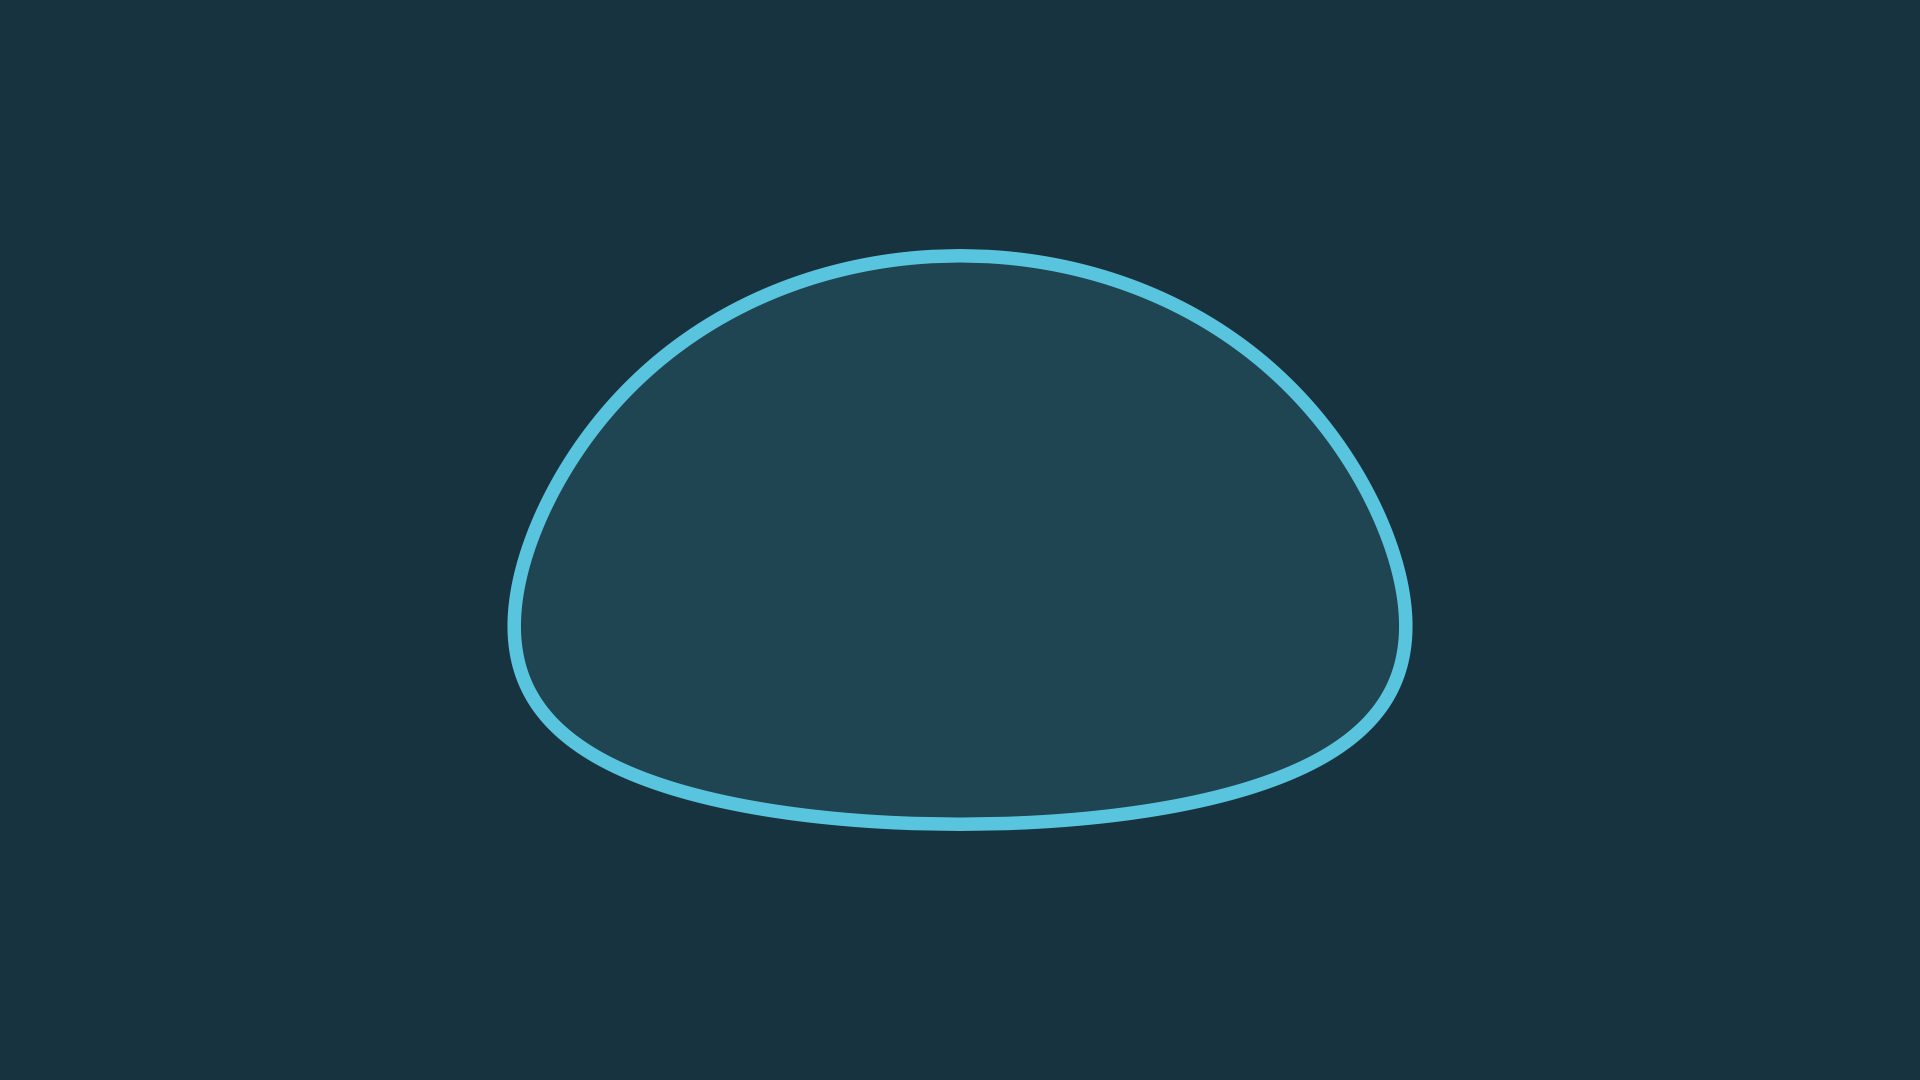
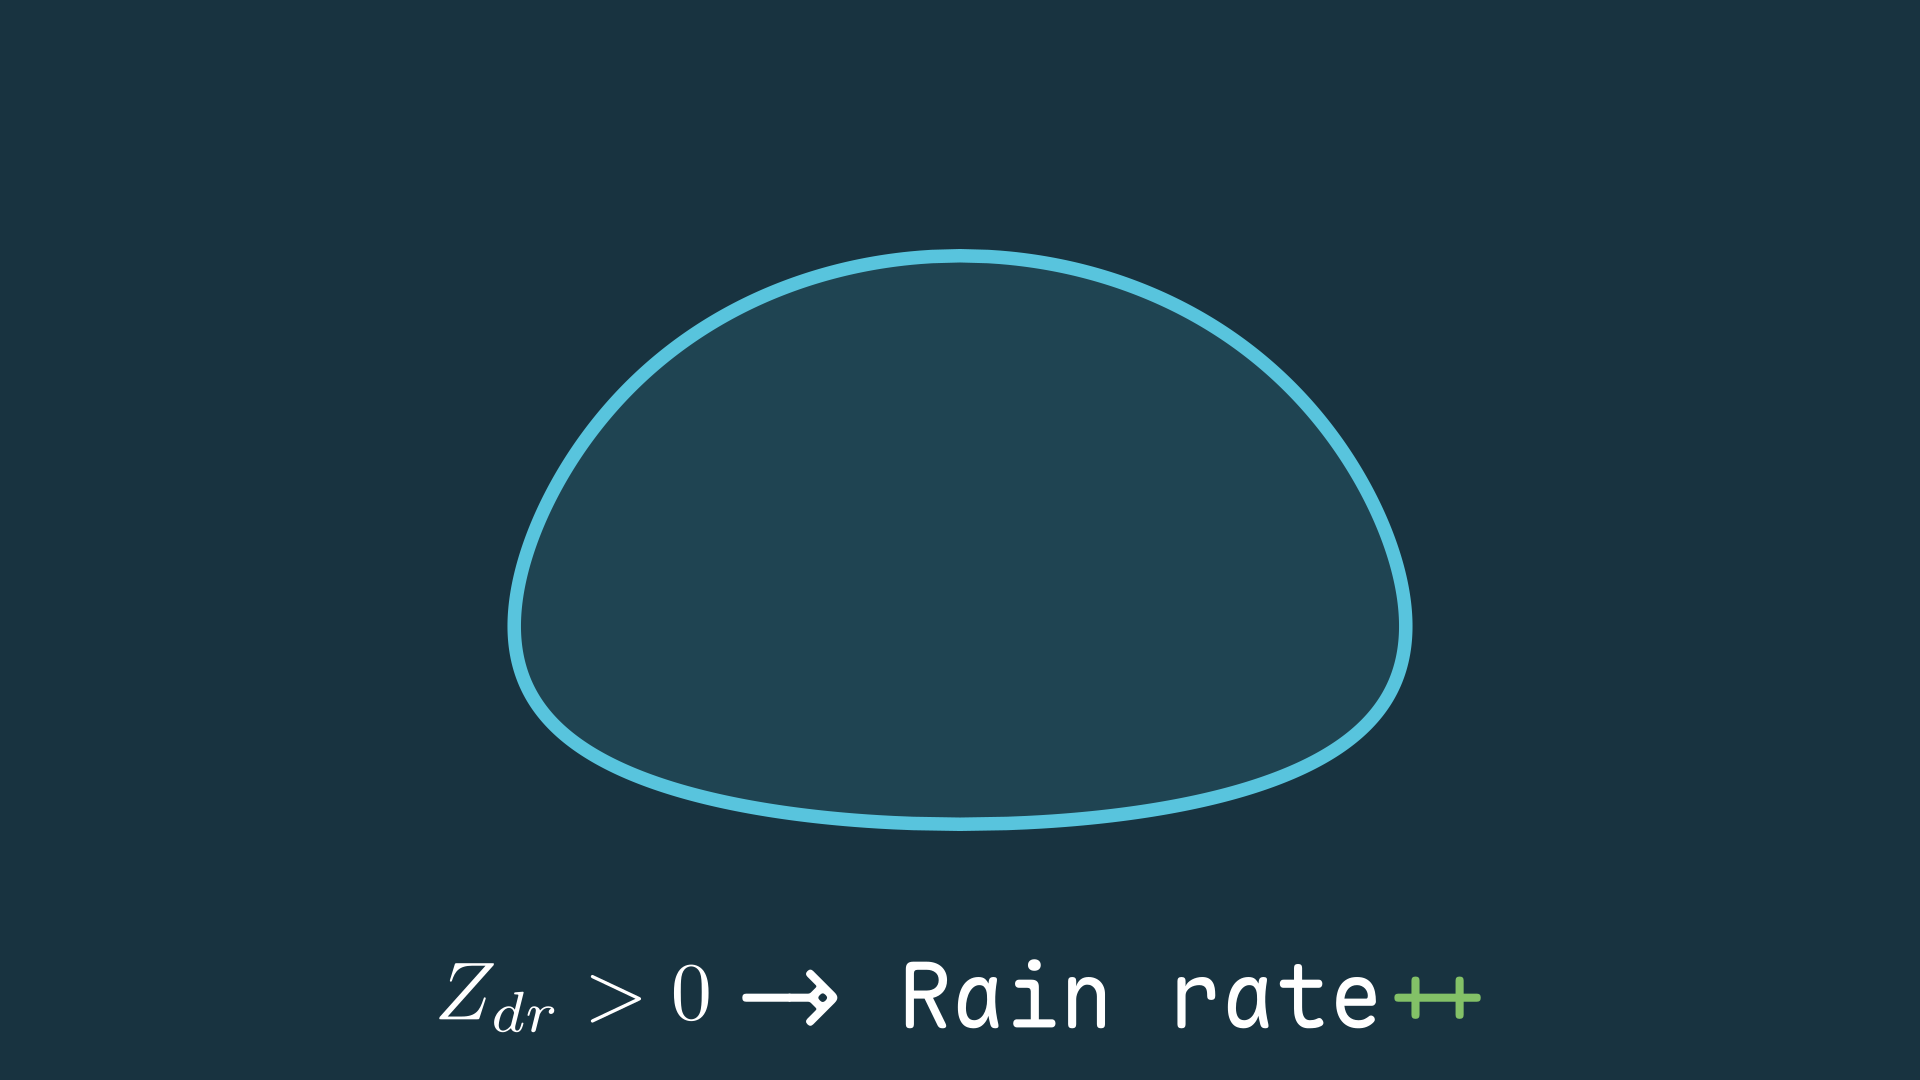
render dropshape

Changed region(s): [[0.4688, 0.8861, 0.7812, 0.9778], [0.3125, 0.8861, 0.4375, 0.9472], [0.2188, 0.8861, 0.2812, 0.9472]]

diff --git a/16_dual_pol/dual_pol.py b/16_dual_pol/dual_pol.py
@@ -43,7 +43,7 @@ from props.style import BACKGROUND_COLOR, IF_COLOR, RX_COLOR, TX_COLOR
 
 config.background_color = BACKGROUND_COLOR
 
-SKIP_ANIMATIONS_OVERRIDE = False
+SKIP_ANIMATIONS_OVERRIDE = True
 
 load_dotenv("../.env")
 FONT = os.getenv("FONT", "")
@@ -3478,9 +3478,7 @@ class DropShape(MovingCameraScene):
 
         self.wait(0.5)
 
-        self.play(self.camera.frame.animate.shift(DOWN * fh(self)))
-
-        self.wait(0.5)
+        # self.wait(0.5)
 
         zdr_gt = MathTex(r"Z_{dr} > 0")
         rr = Text("-> Rain rate++", font=FONT)
@@ -3500,6 +3498,10 @@ class DropShape(MovingCameraScene):
         )
 
         self.wait(0.5)
+
+        self.play(self.camera.frame.animate.shift(DOWN * fh(self)))
+
+        self.wait(2)
 
 
 def _get_nexrad_archive_volume(

diff --git a/16_dual_pol/media/Tex/b3f5d54dd2757a5d.tex b/16_dual_pol/media/Tex/b3f5d54dd2757a5d.tex
@@ -1,0 +1,9 @@
+\documentclass[preview]{standalone}
+\usepackage[english]{babel}
+\usepackage{amsmath}
+\usepackage{amssymb}
+\begin{document}
+\begin{align*}
+\special{dvisvgm:raw <g id='unique000'>}Z_{dr} > 0\special{dvisvgm:raw </g>}
+\end{align*}
+\end{document}